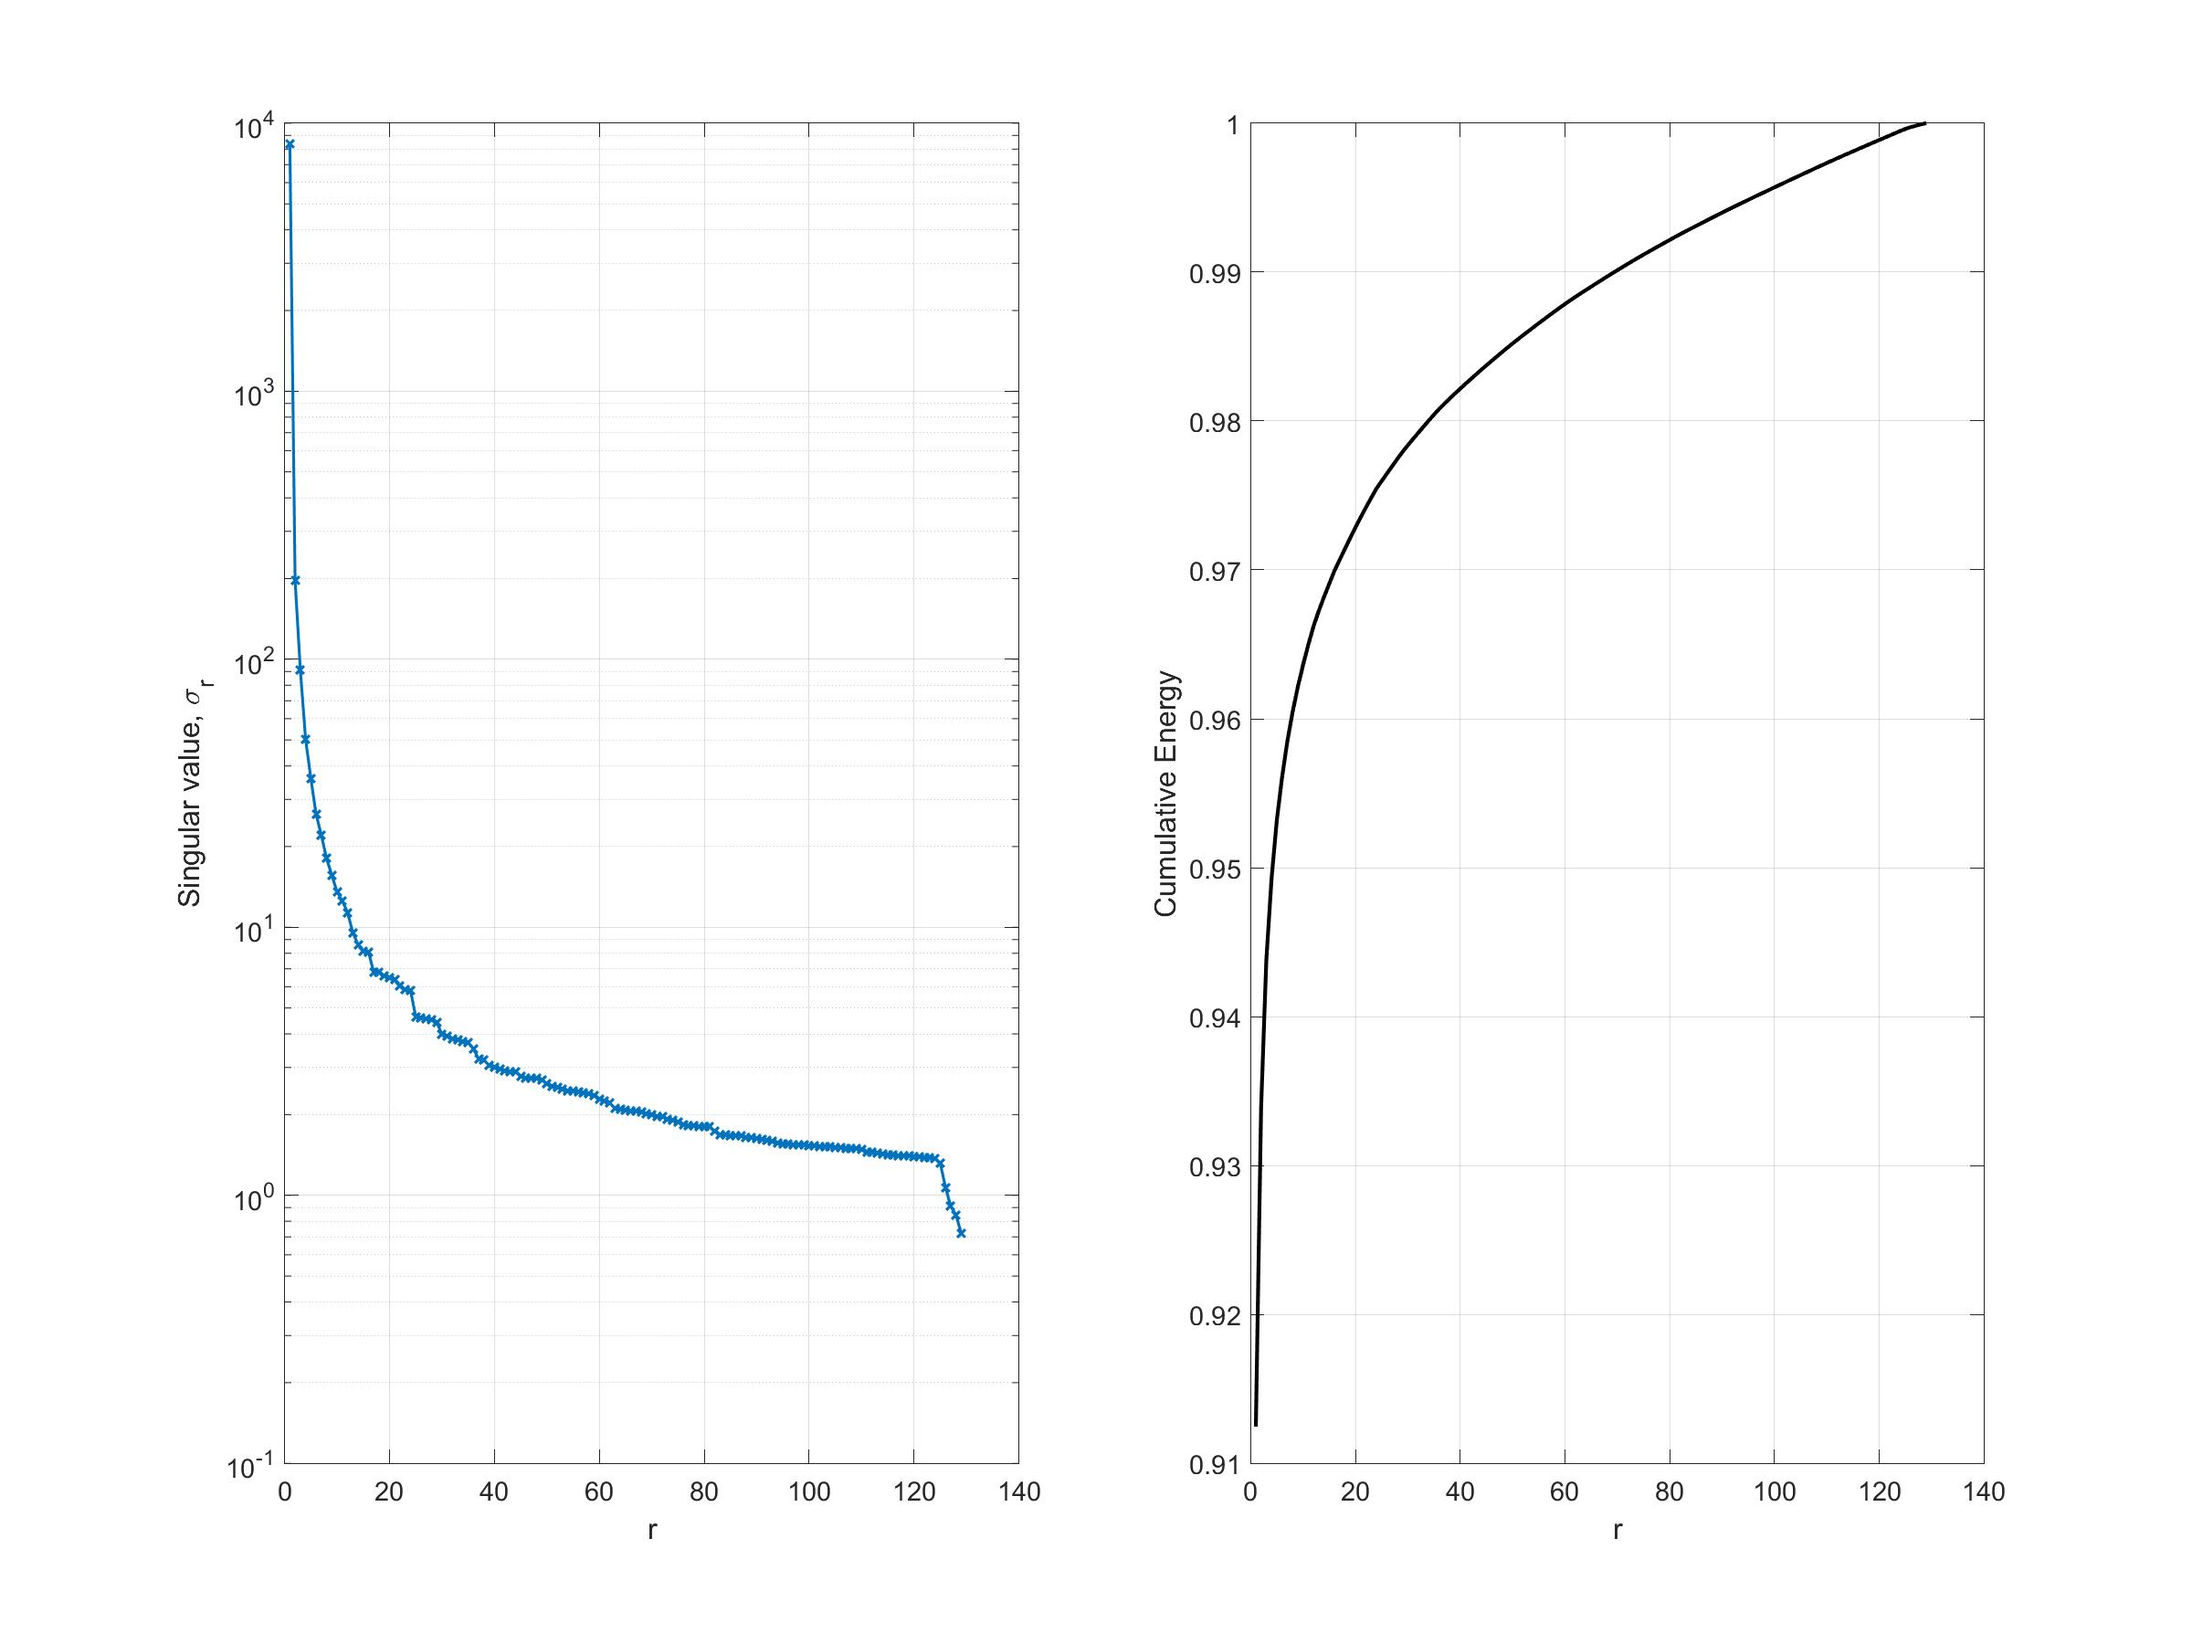
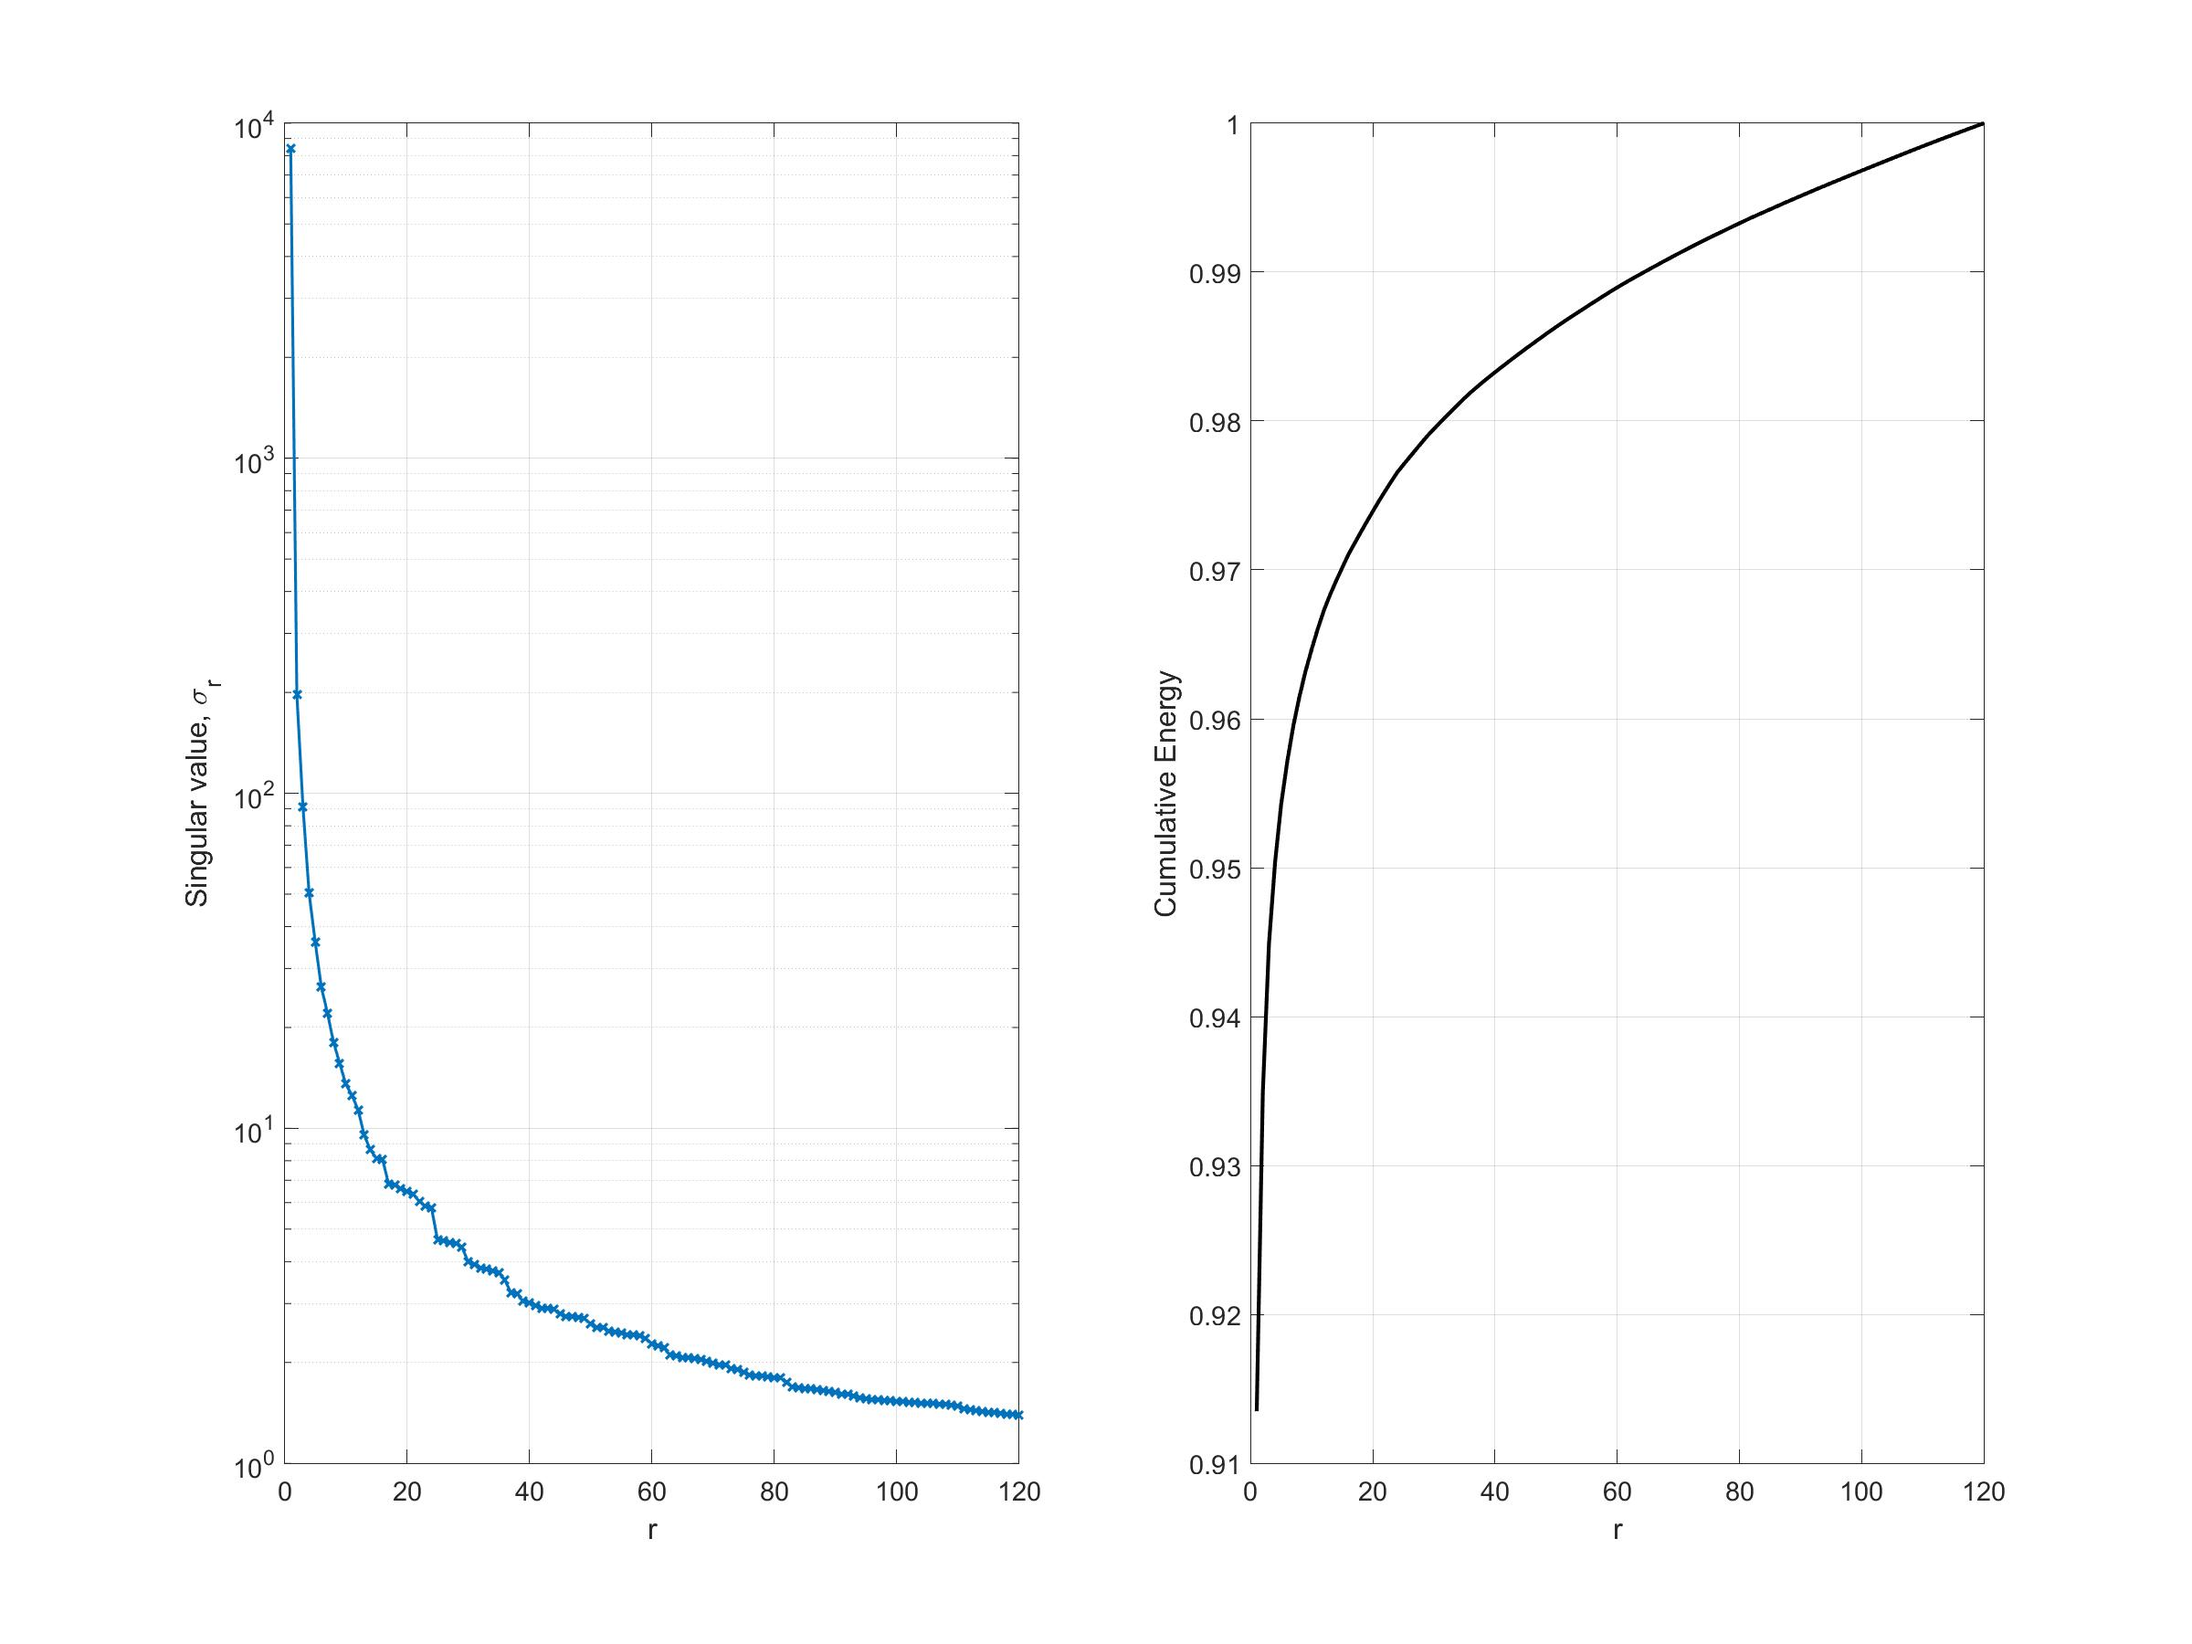
added POD mode display

diff --git a/My_Models/Video_processing_DMD.m b/My_Models/Video_processing_DMD.m
@@ -14,9 +14,11 @@ nrOfFramesUsed = 130;
 % ../Videos/Ci_Cu_timelapse/Ci_Cu_timelapse1.mp4
 % ../Videos/Cu_timelapse/Cu_timelapse_Trim.mp4
 % ../Videos/Sc_real_timelapse
-video = VideoReader('../Videos/St_fog_real_timelapse/fog_video_above_timelapse.mov')
+video = VideoReader('../Videos/Cu_timelapse/Cu_timelapse_Trim.mp4')
 % save video within gray frames and make datamatrix X
-row = video.Height*video.Width;
+nx = video.Height;
+ny = video.Width;
+row = nx*ny;
 X = zeros(row, nrOfFramesUsed);
 ii = 1;
 while hasFrame(video) && ii <= nrOfFramesUsed 
@@ -31,22 +33,34 @@ X = X ./max(X(:));
 X = X ./1.2;               % darken image, especially highlights
 
 % print input video
-videoOut_input = VideoWriter('figures/St_slower_Video_Input','Grayscale AVI')
-open(videoOut_input);
-for i = 1:size(X,2)
-    frame_gray = reshape(X(:,i),video.Height,video.Width);
-    writeVideo(videoOut_input,frame_gray);
-end
-close(videoOut_input);
+% videoOut_input = VideoWriter('figures/St_slower_Video_Input','Grayscale AVI')
+% open(videoOut_input);
+% for i = 1:size(X,2)
+%     frame_gray = reshape(X(:,i),nx,ny);
+%     writeVideo(videoOut_input,frame_gray);
+% end
+% close(videoOut_input);
 
 % free up space
 clear frame, clear frame_gray;
 X2 = X(:,2:end);
 X = X(:,1:end-1);
 
+
 %%  Compute DMD (Phi are eigenvectors)
 [U,S,V] = svd(X,'econ');
+r = 129;                    % truncate at 21 modes, look at singular values
+U = U(:,1:r);
+S = S(1:r,1:r);
+V = V(:,1:r);   
+Atilde = U'*X2*V*inv(S);
+[W,eigs] = eig(Atilde);
+Phi = X2*V*inv(S)*W;
 
+lambda = diag(eigs); % discrete-time eigenvalues
+omega = log(lambda); % continuous-time eigenvalues
+x = X(:, 1);
+b = Phi\x;
 % plot singular values and Cumulative Energy
 figure('Name', 'Singular values'), subplot(1,2,1)
 semilogy(diag(S), 'x-', 'LineWidth',1.5), grid on
@@ -61,20 +75,7 @@ set(gca, 'FontSize', 14)
 set(gcf, 'Color', 'w', 'Position', [400 200 800 600]);
 set(gcf, 'PaperUnits', 'inches', 'PaperPosition', [10 10 16 12], 'PaperPositionMode', 'manual');
 % print
-print('-djpeg', '-loose', ['figures/' sprintf('singularvalues_St_slower_timelapse.jpeg')]);
-
-r = 120;  % truncate at 21 modes, look at singular values
-U = U(:,1:r);
-S = S(1:r,1:r);
-V = V(:,1:r);
-Atilde = U'*X2*V*inv(S);
-[W,eigs] = eig(Atilde);
-Phi = X2*V*inv(S)*W;
-
-lambda = diag(eigs); % discrete-time eigenvalues
-omega = log(lambda); % continuous-time eigenvalues
-x = X(:, 1);
-b = Phi\x;
+% print('-djpeg', '-loose', ['figures/' sprintf('singularvalues_Cu_timelapse.jpeg')]);
 
 %  Plot DMD spectrum
 figure
@@ -84,13 +85,32 @@ plot(cos(theta),sin(theta),'k--') % plot unit circle
 hold on, grid on
 scatter(real(diag(eigs)),imag(diag(eigs)),'ok')
 axis([-1.1 1.1 -1.1 1.1]);
-print('-djpeg', '-loose', ['figures/' sprintf('eigenvalues_St_slower_timelapse_r=120.jpeg')]);
+% print('-djpeg', '-loose', ['figures/' sprintf('eigenvalues_Cu_timelapse_r=129.jpeg')]);
+
+
+%% plot first 24 POD modes
+PODmodes = zeros(nx*6,ny*4);
+count = 1;
+for i=1:6
+    for j=1:4
+        PODmodes(1+(i-1)*nx:i*nx,1+(j-1)*ny:j*ny) = reshape(U(:,4*(i-1)+j),nx,ny);
+        count = count + 1;
+    end
+end
+
+figure, axes('position',[0  0  1  1]), axis off
+imagesc(PODmodes), colormap gray
+print('-djpeg', '-loose', ['figures/' sprintf('eigenvalues_Cu_timelapse_PODmodes.jpeg')]);
+
 
 % free up space if necessary
 sizeOfX = size(X,2);
-clear lambda, clear U, clear X2, clear X, clear x;
+clear lambda, clear X2, clear x;
+% clear X; 
+% clear U
 
 % could be improved with mrDMD!
+
 
 %% prediction
 factor = 2;                             % factor to advance time
@@ -103,7 +123,7 @@ for iter = 1:until
 end
 X_dmd_pred = Phi * time_dynamics_pred;
 
-% if some values ar < 0 or > 1
+% if some values are < 0 or > 1
 if min(X_dmd_pred(:)) < 0 || max(X_dmd_pred(:)) > 1
     for i = 1:size(X_dmd_pred,1)
         for j = 1:size(X_dmd_pred,2)
@@ -117,10 +137,10 @@ if min(X_dmd_pred(:)) < 0 || max(X_dmd_pred(:)) > 1
 end
 
 % recreate and make a prediction as a video
-videoOut = VideoWriter('figures/St_slower_Video_prediction_out_factor2_r=120','Grayscale AVI')
+videoOut = VideoWriter('figures/Cu_Video_prediction_out_factor2_r=129','Grayscale AVI')
 open(videoOut);
 for i = 1:size(X_dmd_pred,2)
-    frame_gray_out = reshape(real(X_dmd_pred(:,i)),video.Height,video.Width);
+    frame_gray_out = reshape(real(X_dmd_pred(:,i)),nx,ny);
     writeVideo(videoOut,frame_gray_out)
 end
 close(videoOut);

diff --git a/Chapter-DMD_book/CH02_FLUIDS/CODE_FLUIDS/plotInOnePlot.m b/Chapter-DMD_book/CH02_FLUIDS/CODE_FLUIDS/plotInOnePlot.m
@@ -26,25 +26,23 @@ for i = fig_first:fig_last
     possub  = get(ax(i),'Position');    
     if mod(i,2) == 0
         posnewh(1) = posnewh(1) + 0.2;
+        % how to set titles --> last time it was working, didn't remember
+        % how I made it, which_str works
+        if which_str == "DMD"
+            title("DMD mode " + round(i/2) + " real part");
+        elseif which_str == "POD"
+            title(sprintf('POD modes %d ', i));      
+        end
     else
-        posnewh(1) = posnewh(1) - 0.2   ;
+        posnewh(1) = posnewh(1) - 0.2;
+        if which_str == "DMD"
+            title("DMD mode " + round(i/2) + " imag part");
+        elseif which_str == "POD"
+            title('POD modes ');      
+        end
     end
-
 
     set(newh(1),'Position', [posnewh(1) possub(2) posnewh(3) possub(4)])
     delete(ax(i));
-    if which_str == "DMD"
-        if mod(i,2) == 0
-            title("DMD mode " + round(i/2) + " real part");
-        else
-            title("DMD mode " + round(i/2) + " imag part");
-        end
-    elseif which_str == "POD"
-        if mod(i,2) == 0
-            title(sprintf('POD modes %d ', i));       
-        else
-            title('POD mode ');
-        end
-    end
 end
 fig = figure(fig_nr)
